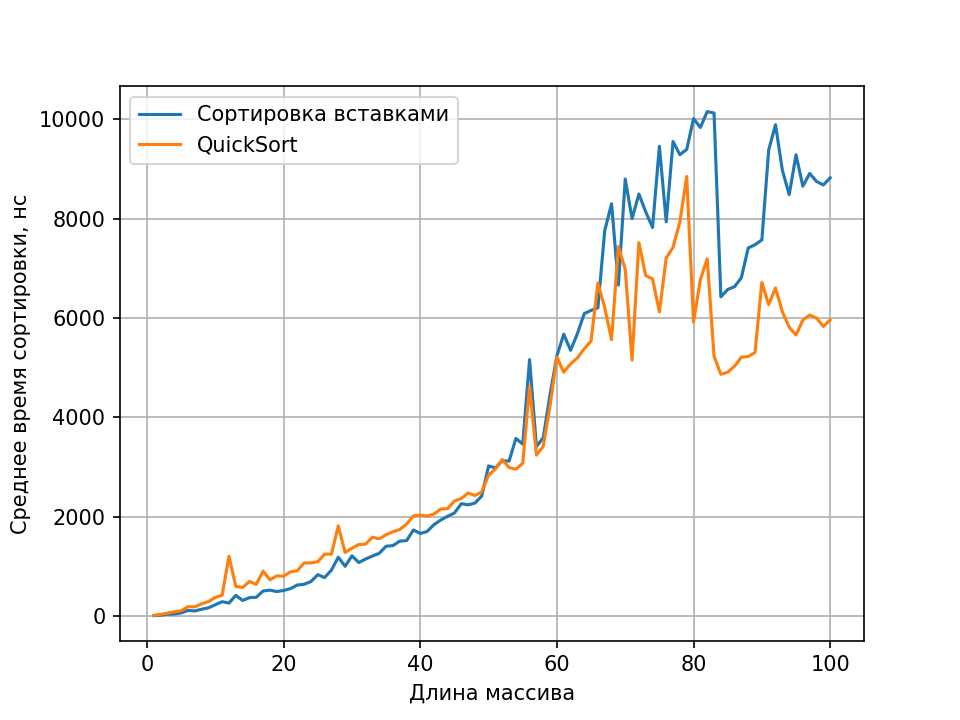
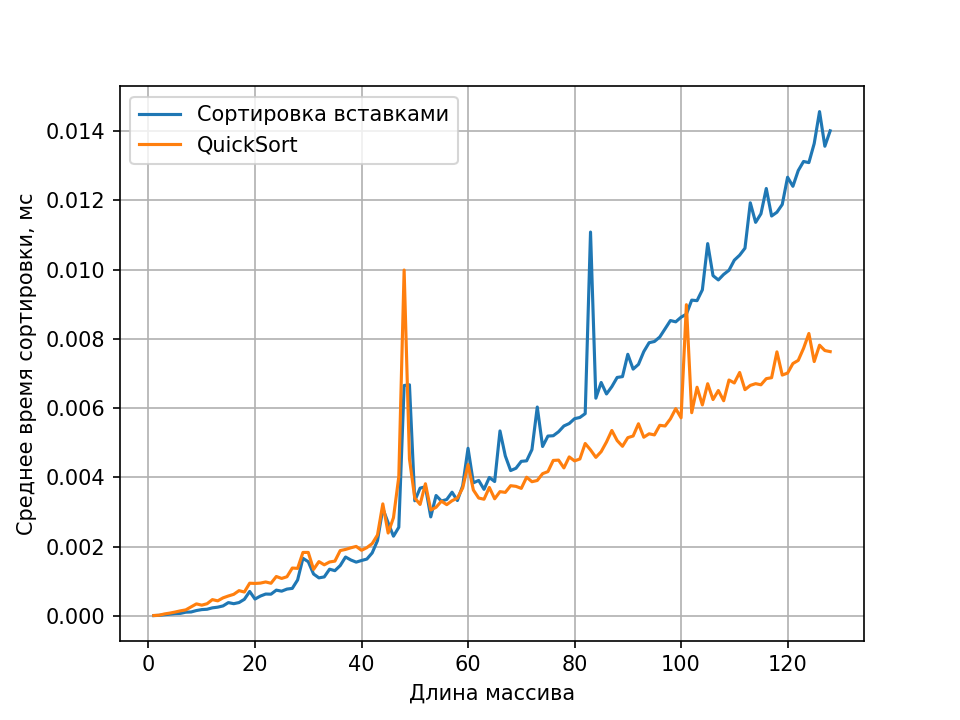
Update test to find threshold

diff --git a/QuickSort/QuickSort.cpp b/QuickSort/QuickSort.cpp
@@ -3,12 +3,14 @@
 #include <fstream>
 #include <random>
 #include <vector>
+#include <iomanip>
 
-#include "quicksort.h"
+#include "Quicksort.h"
 
 int main() {
     const int tests = 5000;
-    const int max_length = 32;
+    const int warmup_tests = 100;
+    const int max_length = 128;
     const int step = 1;
 
     std::mt19937 gen(12345);
@@ -20,33 +22,63 @@ int main() {
     QueryPerformanceFrequency(&frequency);
 
     std::ofstream out("result.csv");
-    out << "n,insertion_ns,quick_ns\n";
+    out << "n,insertion_ms,quick_ms\n";
+    out << std::fixed << std::setprecision(9);
 
     for (int n = 1; n <= max_length; n += step) {
         std::vector<int> source(tests * n);
+
         for (int& x : source) {
             x = dist(gen);
+        }    
+        std::vector<int> work = source;
+
+        // Прогрев сортировки вставками
+
+        for (int t = 0; t < warmup_tests; ++t) {
+            int* first = work.data() + t * n;
+            algo::insertion_sort(first, first + n, [](int a, int b) { return a < b; });
         }
 
-        std::vector<int> work = source;
+        work = source;
+
         QueryPerformanceCounter(&start);
+
         for (int t = 0; t < tests; ++t) {
             int* first = work.data() + t * n;
             algo::insertion_sort(first, first + n, [](int a, int b) { return a < b; });
         }
+
         QueryPerformanceCounter(&stop);
-        double insertion_ms = (stop.QuadPart - start.QuadPart) * 1e3 / frequency.QuadPart / tests;
+
+        double insertion_ms = (stop.QuadPart - start.QuadPart) * 1000.0 / frequency.QuadPart / tests;
+
+        // Прогрев QuickSort
 
         work = source;
+
+        for (int t = 0; t < warmup_tests; ++t) {
+            int* first = work.data() + t * n;
+            algo::quick_sort(first, first + n, [](int a, int b) { return a < b; }, 2);
+        }
+
+        work = source;
+
+        // Измерение QuickSort
+
         QueryPerformanceCounter(&start);
+
         for (int t = 0; t < tests; ++t) {
             int* first = work.data() + t * n;
             algo::quick_sort(first, first + n, [](int a, int b) { return a < b; }, 2);
         }
+
         QueryPerformanceCounter(&stop);
-        double quick_ms = (stop.QuadPart - start.QuadPart) * 1e3 / frequency.QuadPart / tests;
+
+        double quick_ms = (stop.QuadPart - start.QuadPart) * 1000.0 / frequency.QuadPart / tests;
 
         out << n << ',' << insertion_ms << ',' << quick_ms << '\n';
     }
+
     return 0;
 }

diff --git a/QuickSort/plot.py b/QuickSort/plot.py
@@ -6,7 +6,7 @@ n, insertion, quick = np.loadtxt("result.csv", delimiter=",", skiprows=1, unpack
 plt.plot(n, insertion, label="Сортировка вставками")
 plt.plot(n, quick, label="QuickSort")
 plt.xlabel("Длина массива")
-plt.ylabel("Среднее время сортировки, нс")
+plt.ylabel("Среднее время сортировки, мс")
 plt.legend()
 plt.grid(True)
 plt.savefig("result.png", dpi=150)

diff --git a/QuickSort/QuickSort.h b/QuickSort/QuickSort.h
@@ -6,7 +6,7 @@
 namespace algo {
 
     // Максимальная длина интервала, который досортировывается вставками.
-    constexpr std::ptrdiff_t kInsertionSortThreshold = 32;
+    constexpr std::ptrdiff_t kInsertionSortThreshold = 42;
 
     namespace detail {
         // Обмен элементов через перемещение

diff --git a/Tests/test.cpp b/Tests/test.cpp
@@ -12,7 +12,7 @@
 #include <utility>
 #include <vector>
 
-#include "quicksort.h"
+#include "Quicksort.h"
 
 namespace {
 
